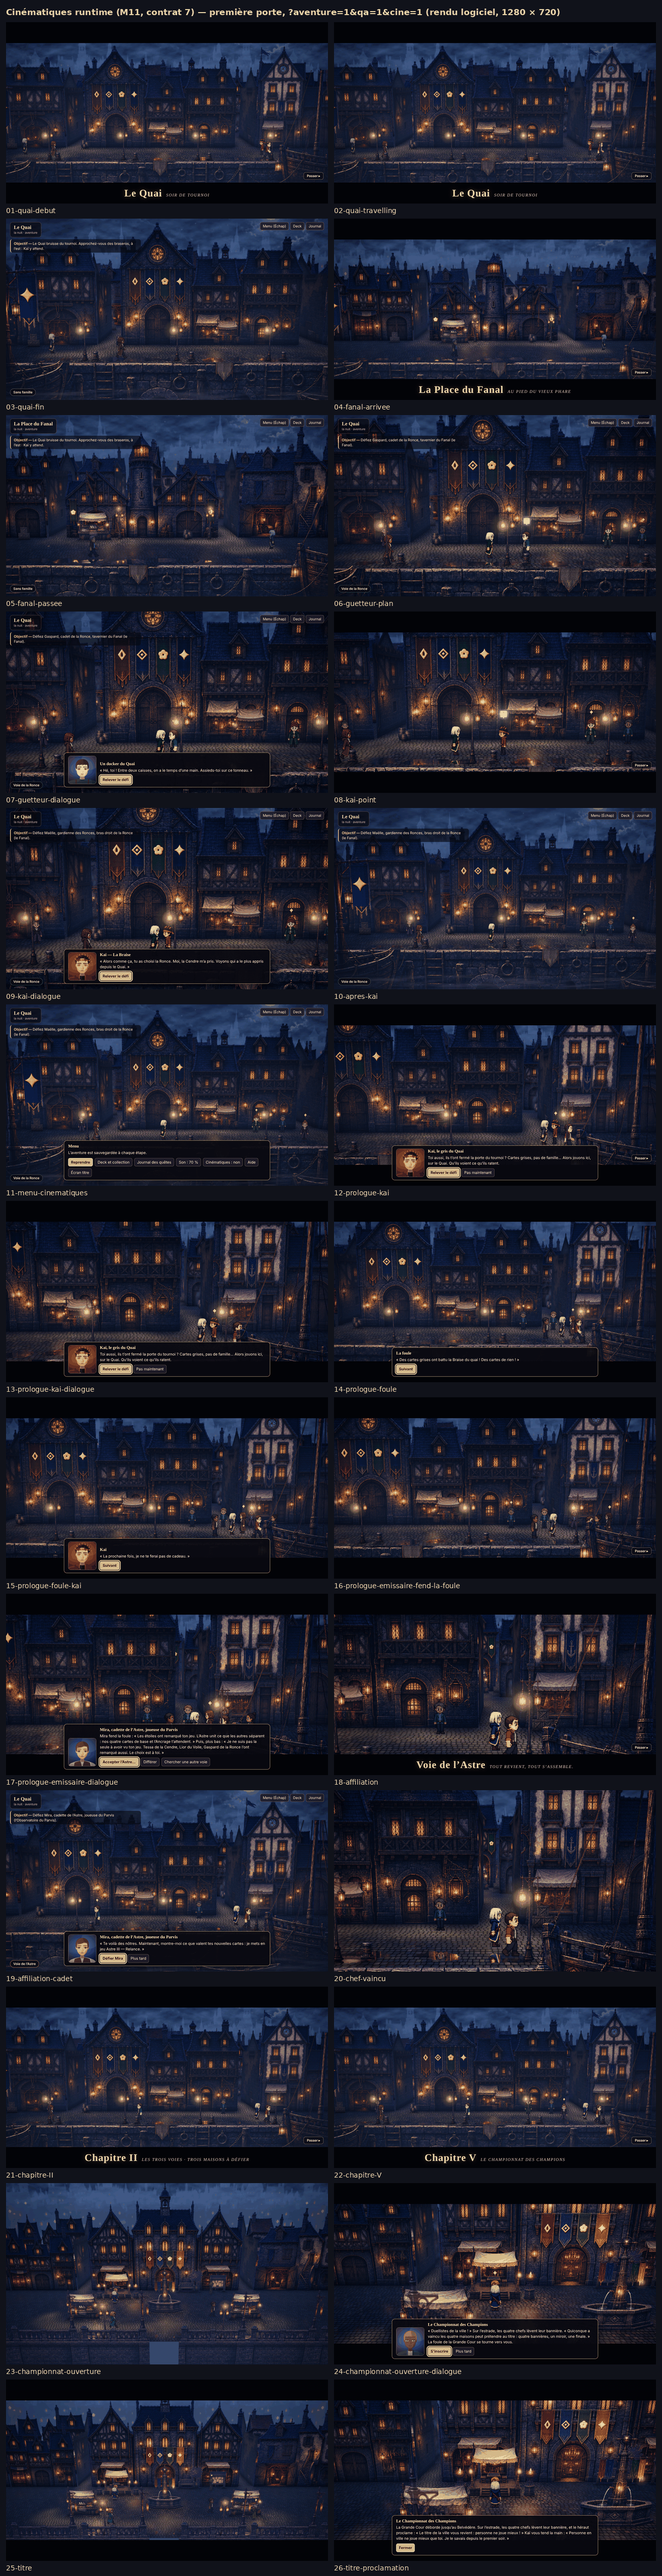
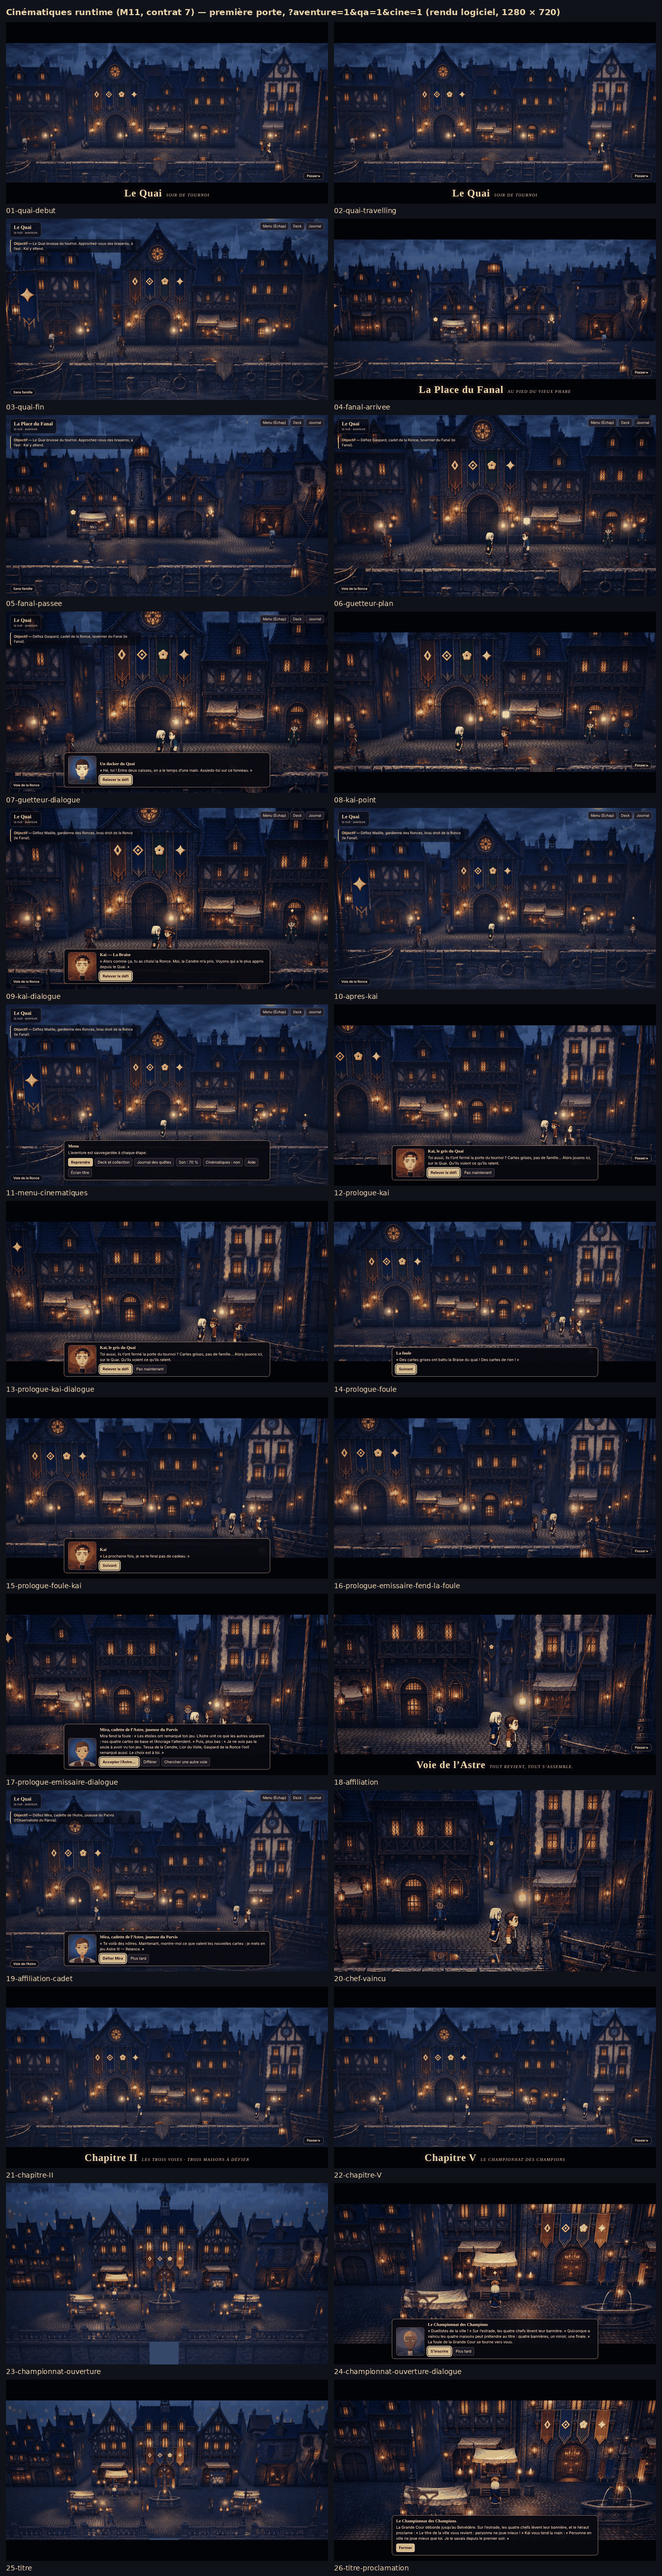
qa(m11): cinématiques 25/25 et 17/17 sur le build final, qa:championnat 13/13, qa:aventure 47/48 (échec connu) ; journal passe 151 complété
Claude-Session: https://claude.ai/code/session_013HK9y5SHCZU7ZjZ13kRqgy

Changed region(s): [[0.4985, 0.2487, 0.9658, 0.3109], [0.0312, 0.3109, 0.4985, 0.3731]]

diff --git a/JOURNAL.md b/JOURNAL.md
@@ -3007,5 +3007,11 @@ Mettre aussi à jour les sections globales « À reprendre » et « Principes à
   - `[OK]` **Bornes de la caméra qui suivent le zoom** (`Town.cadrer`) : plus près, la caméra peut aller plus loin vers le bord sans montrer davantage le bord du décor ; plus loin, elles se resserrent. Kaï et l'émissaire, au bout du Quai, se recentrent en gros plan.
   - `[OK]` Plans purs (`cinematiques.ts`) : chapitre, chef, affiliation, titre, Kaï au prologue, émissaire, cadres de dialogue (un, deux, un groupe) ; cartons de chapitre. Crochets de QA : `qaApparenceEmissaire`, `qaTitre` (le Championnat mené au titre par les faits du jeu, puis le retour de la finale par le code du jeu). Aide de l'aventure.
   - `[OK]` Docs : contrat 7 (§2 dialogues de scène, bandes partagées, bornes ; §3 bis ; §4), fiche M11 (C4 fait, C6 à C9), index `docs/m11/README.md`, retour de session, encadrés « Après M11 ».
-- **Vérifications :** `tsc` ; **547 tests verts** (42 fichiers ; scènes du récit, cadres de dialogue, cartons de chapitre, bandes partagées) ; build. Navigateur (SwiftShader, 1280 × 720, `tools/m11-cinematiques.mjs`, `LQV_CINE_PARTIE=2`) : **17/17** sur les scènes du récit (Kaï au prologue, la foule et l'émissaire venu au joueur, l'affiliation, chef vaincu puis chapitre II, chapitre V, ouverture du Championnat, titre et proclamation cadrées, bandes repliées à la fin). Une sonde a écarté un faux défaut : sur deux captures, le carton apparaissait sans bandes. En rendu logiciel, la transition des bandes dure environ 3 s au lieu de 0,42 s, et les captures tombaient dans cette fenêtre.
-- **À reprendre :** résultats de QA complets (les deux parties, `qa:aventure` et `qa:championnat` sans `?cine=1`) dans le commit suivant ; puis la fiche (C1 à C9).
+- **Vérifications :** `tsc` ; **547 tests verts** (42 fichiers ; scènes du récit, cadres de dialogue, cartons de chapitre, bandes partagées) ; build. Navigateur (SwiftShader, 1280 × 720) :
+  - **`tools/m11-cinematiques.mjs`** : première partie **25/25** sur le build final ; scènes du récit **17/17** (Kaï au prologue, la foule et l'émissaire venu au joueur, l'affiliation, chef vaincu puis chapitre II, chapitre V, ouverture du Championnat, titre et proclamation cadrées, bandes repliées à la fin). Planche `screenshots/qa/m11/cinematiques-1280/planche-cinematiques.png` (26 vues).
+  - Le contrôle du travelling a été abaissé à 0,05 en gardant la monotonie : les bornes suivent le zoom (le plan large s'arrête plus tôt vers le bord) et l'échantillonnage commence tard en rendu logiciel.
+  - Une sonde a écarté un faux défaut : sur deux captures, le carton apparaissait sans bandes. En rendu logiciel, la transition des bandes dure environ 3 s au lieu de 0,42 s, et les captures tombaient dans cette fenêtre.
+  - Parcours d'avant, sans `?cine=1` : **`qa:championnat` 13/13** ; **`qa:aventure` 47/48**, avec le seul échec connu de la passe 148 (la marche au clavier jusqu'à la rue Haute dépend de la fréquence d'images ; il échoue aussi sur le build `bd93beb`).
+  - Le jeu par défaut ne charge ni l'aventure ni la ville : il n'est pas touché (identique au pixel près en passe 150).
+- **[?] À juger en jeu :** rythme, durées et cadrages des scènes, à la fréquence de l'écran (fiche C1 à C9).
+- **À reprendre :** la fiche M11 remplie par le responsable (L1, C1 à C9) ; selon elle, la vue d'ensemble d'un rang du fond (fantômes pilotés par la caméra) ou d'autres scènes (contrat 7, §4).
